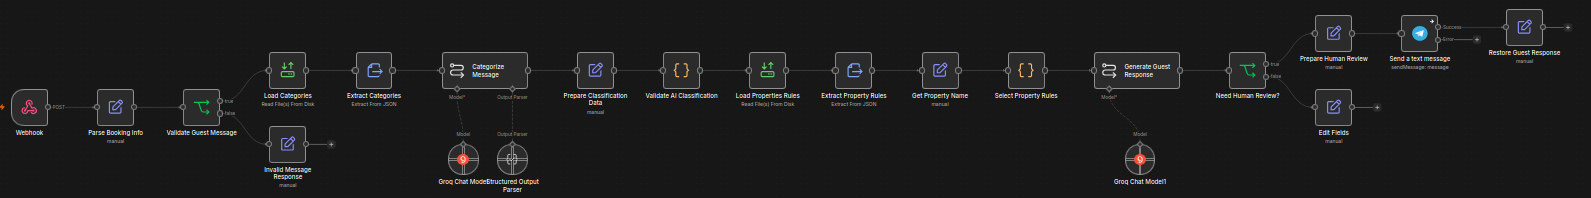
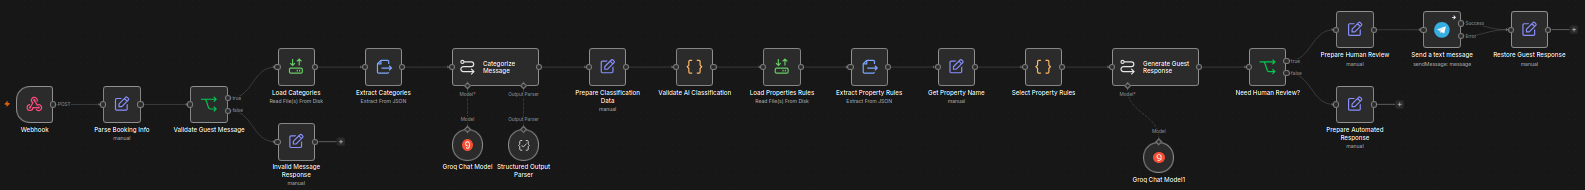
Finalize Project 1 documentation and update workflow screenshot

diff --git a/README.md b/README.md
@@ -194,6 +194,38 @@ Requests needing staff assistance should also trigger a Telegram notification.
 
 ## Development Status
 
-Core workflow functionality has been implemented and tested locally.
+## Test Results
 
-Portfolio documentation, reproducible setup instructions, and broader testing are in progress.
+The following scenarios were tested successfully in the
+local n8n environment.
+
+| Test Scenario | Expected Behavior | Result |
+|---|---|---|
+| Normal check-in inquiry | Generate automated response | PASS |
+| Early check-in request | Route to human review and notify manager | PASS |
+| Invalid AI classification | Force human review | PASS |
+| Telegram notification failure | Continue processing and return guest response | PASS |
+| Empty guest message | Return validation error | PASS |
+| Fictional Wi-Fi inquiry | Provide property-specific Wi-Fi information | PASS |
+
+## Development Status
+
+**Status: Completed Portfolio Prototype**
+
+The core AI Guest Messaging Assistant has been implemented,
+tested locally, and documented.
+
+The project demonstrates:
+
+- AI-powered guest message classification
+- Python-based classification validation
+- Property-specific response generation
+- Automated and human-review routing
+- Telegram manager notifications
+- Basic error handling and input validation
+- Git version control
+
+This is a functional portfolio demonstration using
+fictional property data and simulated guest messages.
+
+Production Airbnb/Vrbo integration is not included.
